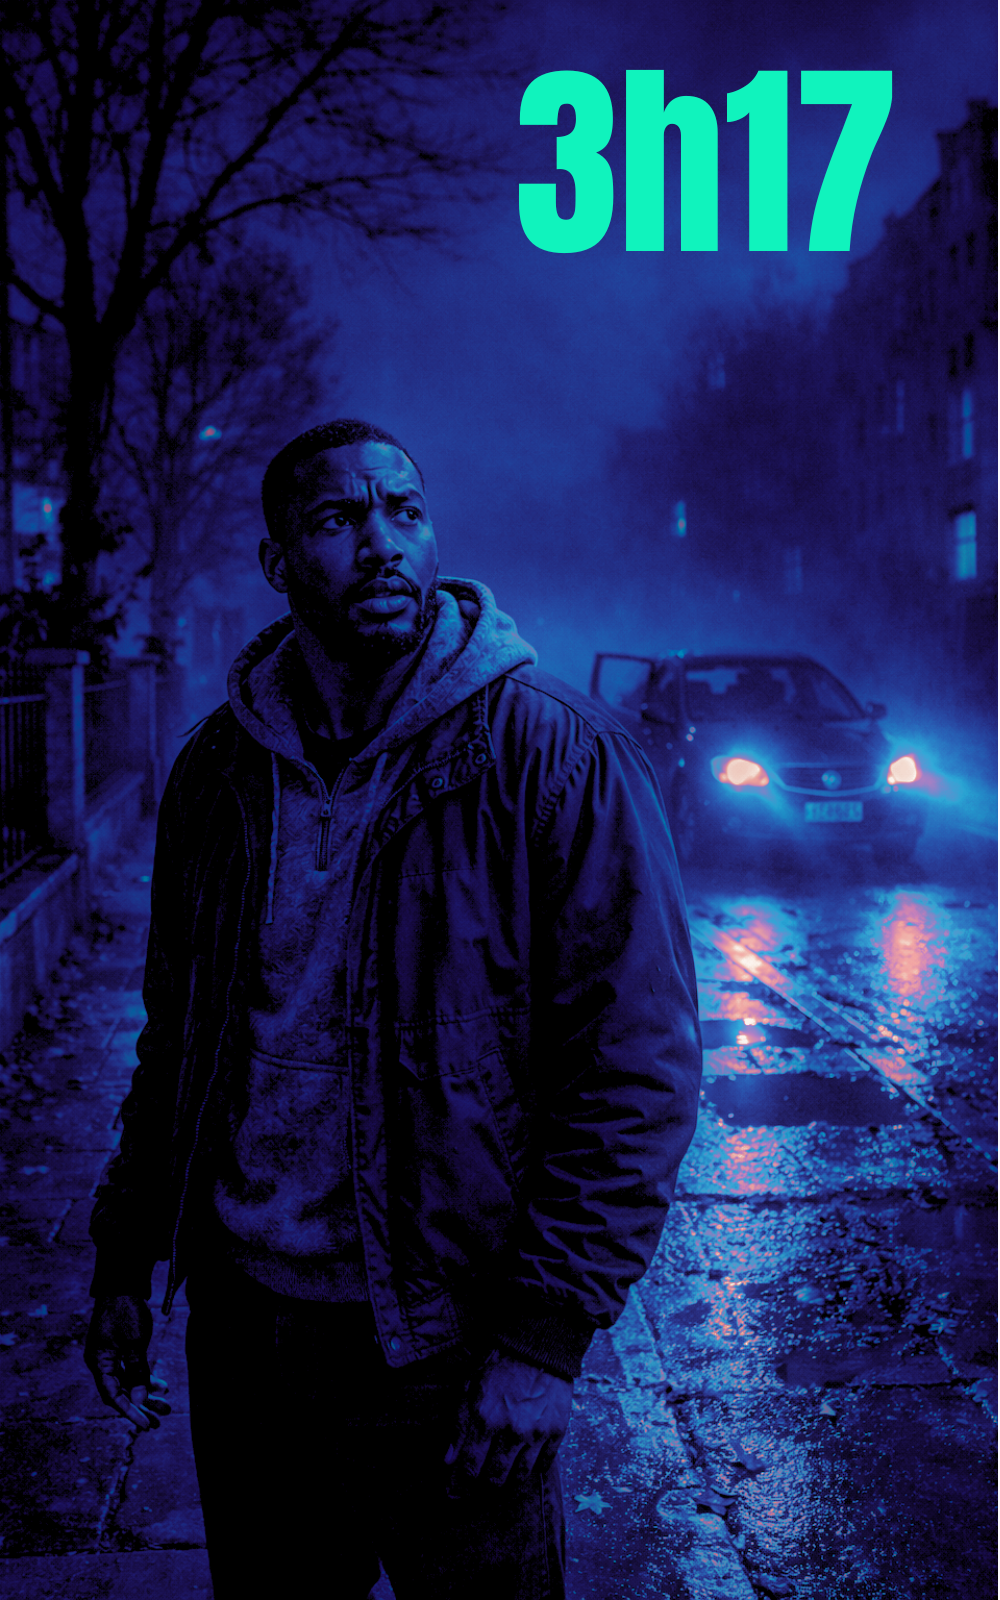
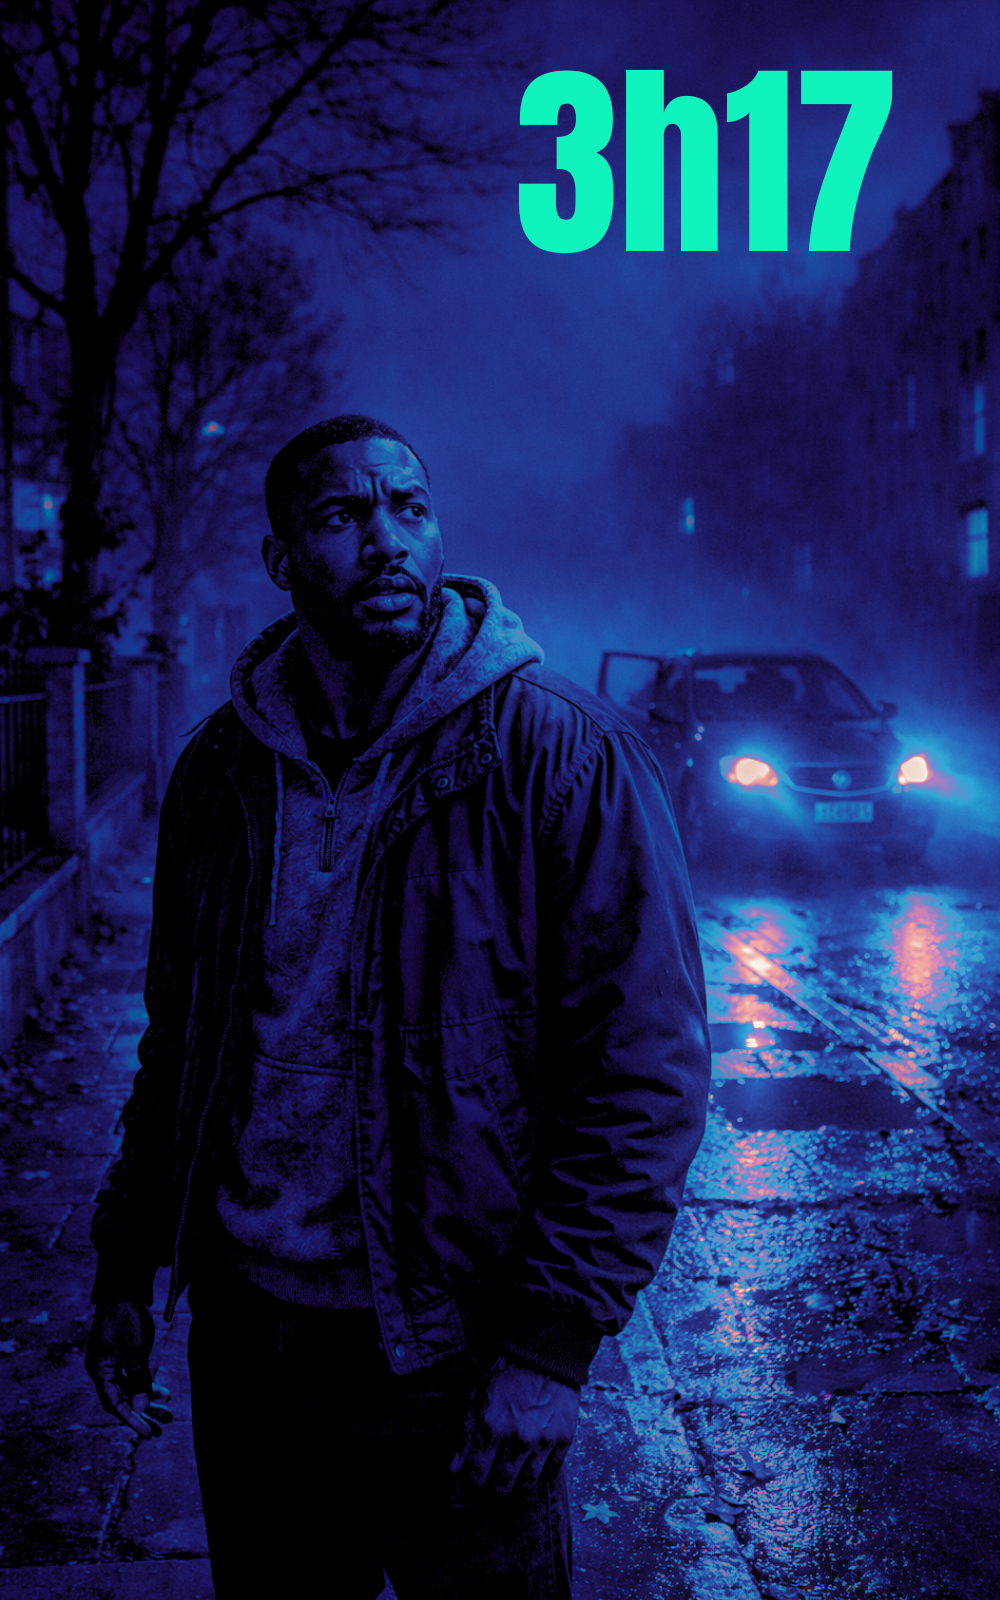
Match tablet poster frame ratio

diff --git a/components/catalogue/CataloguePageClient.js b/components/catalogue/CataloguePageClient.js
@@ -1485,6 +1485,23 @@ export default function CataloguePageClient({ page }) {
           }
         }
 
+        @media (min-width: 600px) and (max-width: 849px) {
+          .catalog-card:not(.is-featured) .catalog-poster-link,
+          .catalog-card:not(.is-featured) .catalog-poster-static {
+            width: min(
+              100%,
+              calc(((var(--compact-poster-height) - (var(--compact-frame-padding) * 2)) * 5 / 8) + (var(--compact-frame-padding) * 2))
+            );
+          }
+
+          .catalog-card:not(.is-featured) .catalog-poster {
+            width: 100%;
+            height: 100%;
+            max-height: none;
+            object-fit: contain;
+          }
+        }
+
         @media (min-width: 622px) and (max-width: 849px) {
           .catalog-page {
             padding-inline: 18px;
